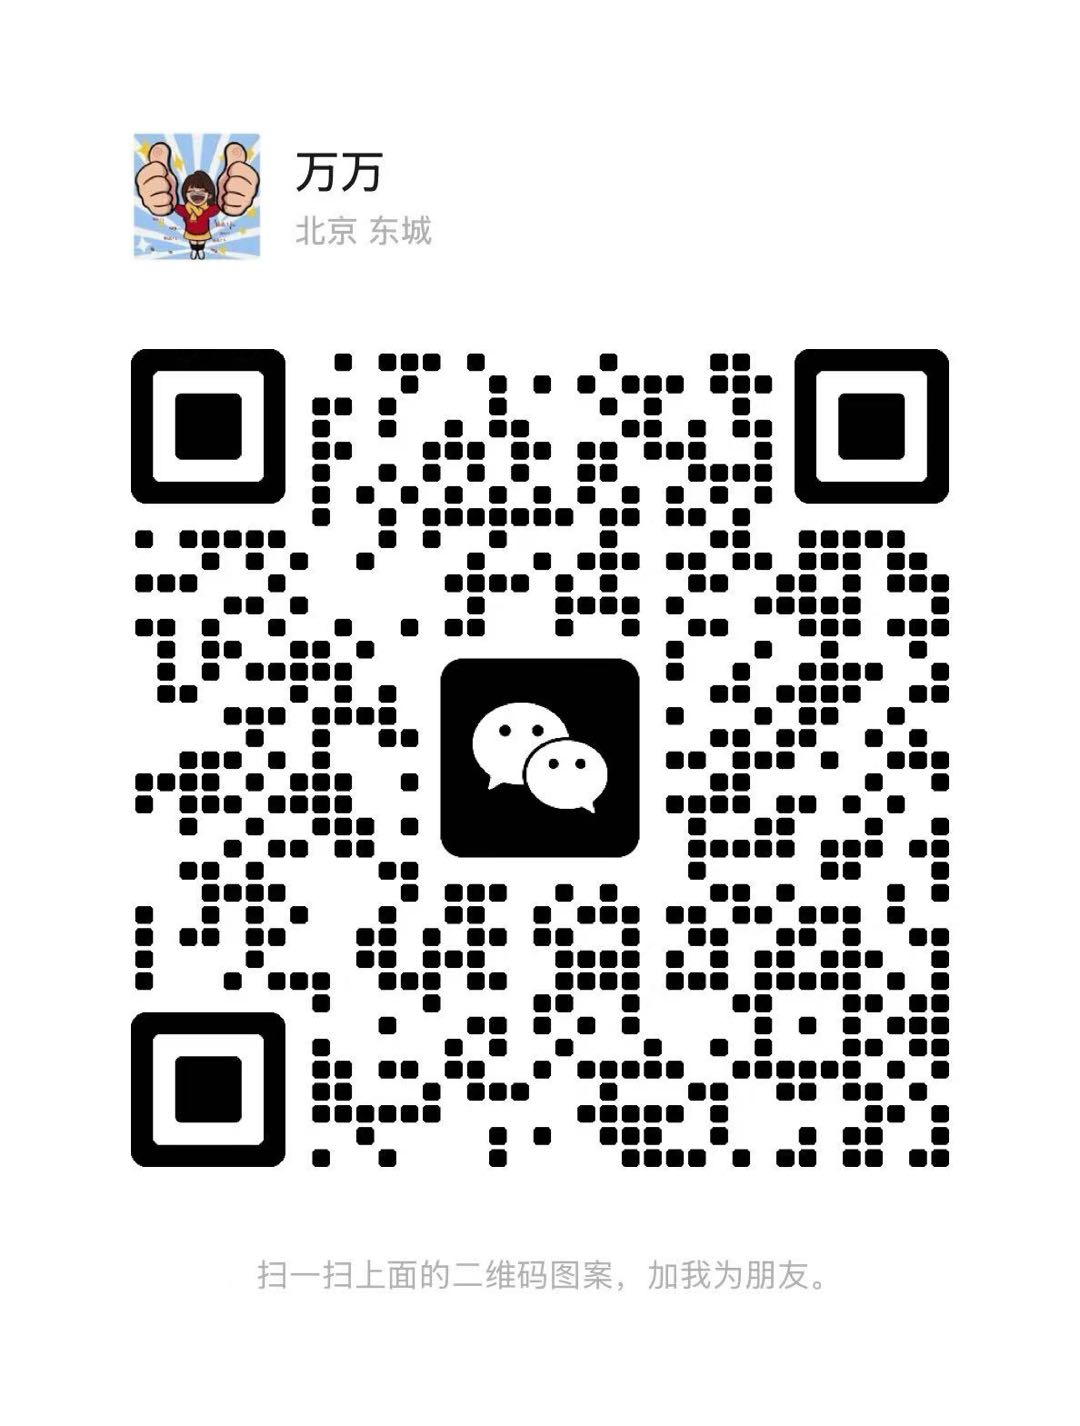
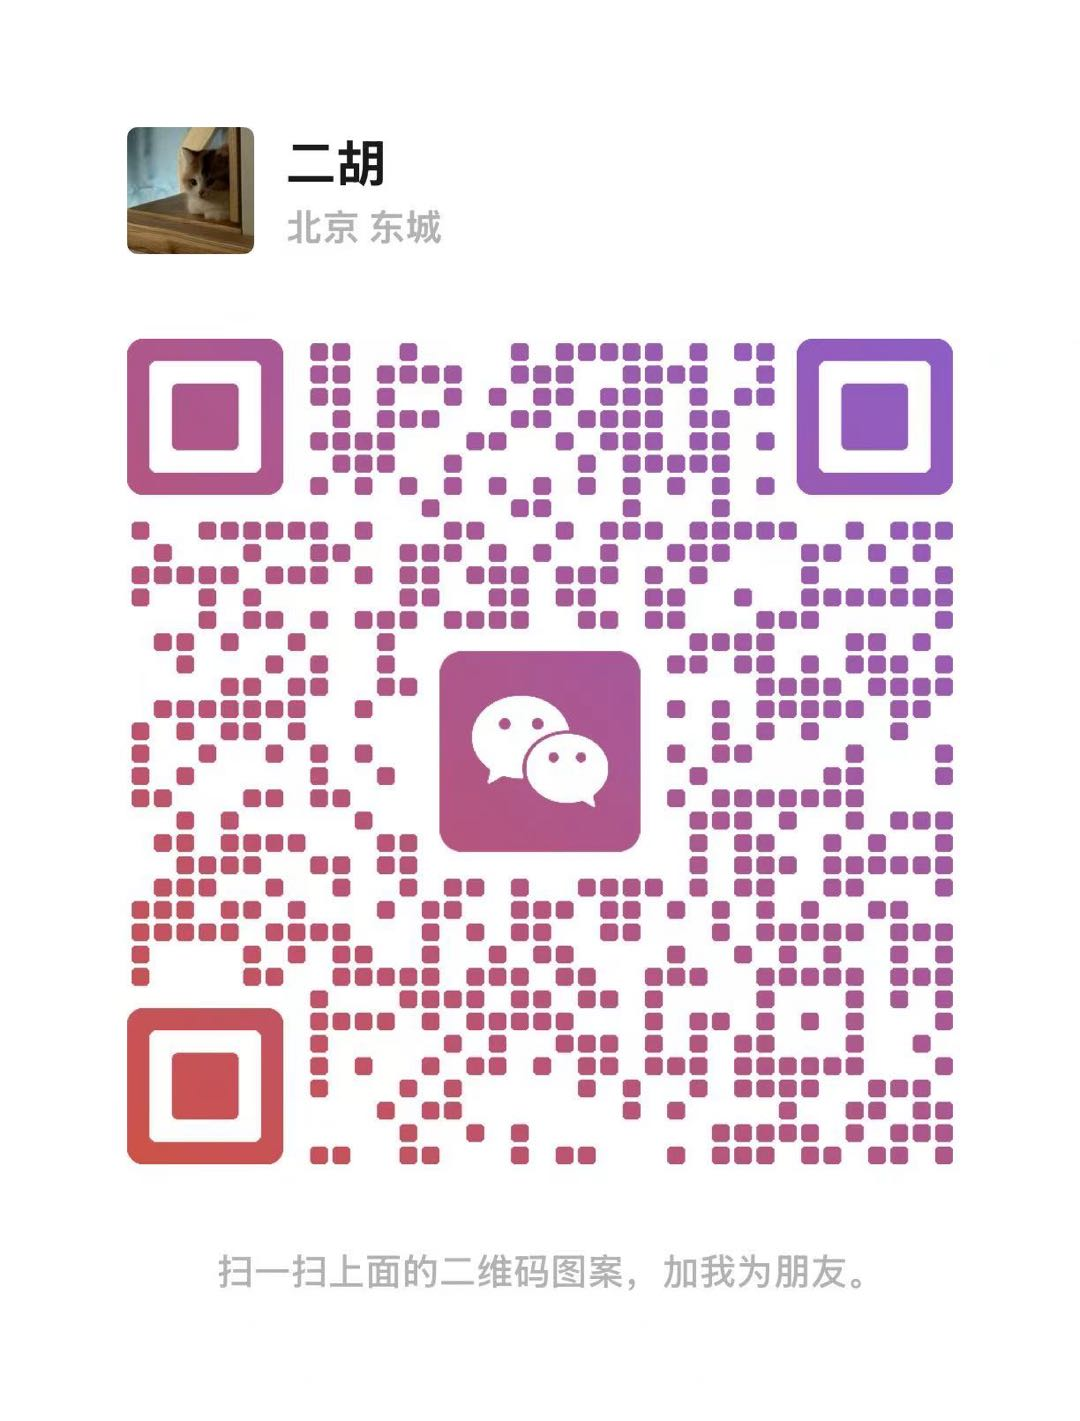
update: 联系板块改为纯商务微信入口

diff --git a/index.html b/index.html
@@ -133,13 +133,8 @@
 <div class="section-label">Contact</div>
 <h2>联系我们</h2>
 <p>无论你是创业者、投资人、内容创作者或行业伙伴，欢迎直接联系</p>
-<div class="contact-cards">
-<div class="contact-card"><div class="contact-card-icon">👤</div><h4>行政事务</h4><p>商务合作、入职咨询、资质审核等<br><a href="mailto:contact@rujing.net">contact@rujing.net</a></p></div>
-<div class="contact-card"><div class="contact-card-icon">🎬</div><h4>创作合作</h4><p>影视项目、短剧合作、内容共创、IP 合作<br><a href="mailto:contact@rujing.net">contact@rujing.net</a></p></div>
-<div class="contact-card"><div class="contact-card-icon">🤝</div><h4>投资机构</h4><p>融资、战略合作、投资对接<br><a href="mailto:contact@rujing.net">contact@rujing.net</a></p></div>
-</div>
-<div class="wechat-section">
-<h4>添加商务微信</h4>
+<div class="wechat-section" style="max-width:500px;margin:0 auto;">
+<h4>📱 扫码添加商务微信</h4>
 <div class="wechat-row">
 <div class="wechat-qr-box"><img src="images/wechat-qr.jpg" alt="微信二维码"></div>
 <div class="wechat-tips">
